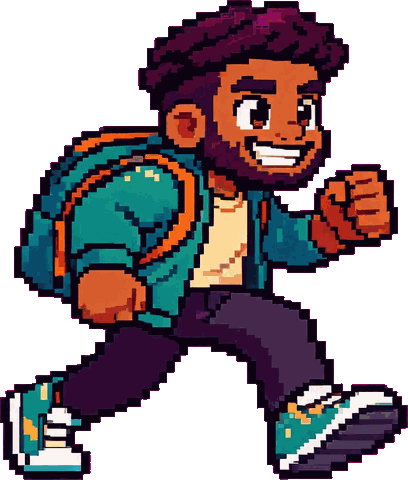
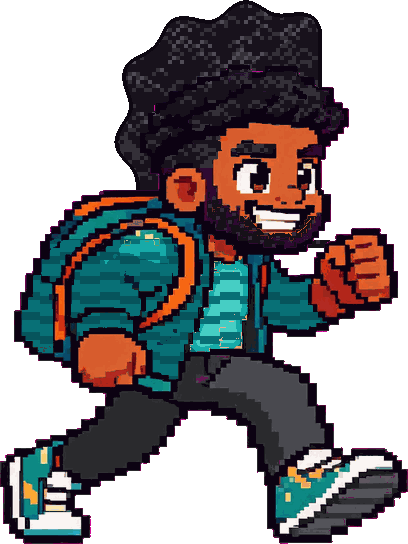
Repaint the title-screen hero with the afro too
repaint-hero.py now also repaints the big running hero on the title screen
(from assets/source/characters/title-hero-v1.webp, which build-art-kit.py
writes) in four-pixel blocks, with room added for the afro.

Claude-Session: https://claude.ai/code/session_01TySN1cNevy2HFj41ARkqbS

diff --git a/tools/repaint-hero.py b/tools/repaint-hero.py
@@ -24,6 +24,8 @@ ROOT = Path(__file__).resolve().parent.parent
 SOURCE = ROOT / 'assets/source/characters/hero-atlas-v1.png'
 ATLAS = ROOT / 'assets/production/characters/hero-atlas.png'
 META = ROOT / 'assets/production/characters/hero-atlas.json'
+TITLE_SOURCE = ROOT / 'assets/source/characters/title-hero-v1.webp'
+TITLE = ROOT / 'assets/production/characters/title-hero.webp'
 
 AFRO = np.array([24, 18, 28])
 AFRO_LIGHT = np.array([52, 48, 56])
@@ -78,13 +80,16 @@ def grow(mask, steps=1):
     return out
 
 
-def repaint(cell):
+def repaint(cell, L=1, px=1):
+    """Repaint one picture of him. L is how many times larger than the game sprite he is drawn,
+    and px the size of one of the picture's pixel blocks."""
     cell = cell.copy()
     alpha = cell[..., 3]
     solid = alpha > 160
     hue, sat, val = classes(cell)
     rgb = cell[..., :3].astype(np.int32)
     yy, xx = np.mgrid[0:cell.shape[0], 0:cell.shape[1]]
+    by, bx = yy // px, xx // px
 
     skin = solid & (hue > 0.02) & (hue < 0.1) & (sat > 0.45) & (val > 0.5)
     dark = solid & (val < 0.36) & ((hue > 0.85) | (hue < 0.06) | (sat < 0.3))
@@ -100,12 +105,12 @@ def repaint(cell):
     # His face is the skin patch that touches the hair most (fists can be just as high).
     # A head is about 30 pixels from crown to chin, which keeps a raised hand off the face.
     hair_top = np.where(hair)[0].min() if hair.any() else top
-    labels, sizes = components(skin & (yy < hair_top + 32))
-    near = grow(hair, 3)
+    labels, sizes = components(skin & (yy < hair_top + 32 * L))
+    near = grow(hair, round(3 * L))
     best, face = 0, None
     for n in range(1, len(sizes)):
         touch = int((near & (labels == n)).sum())
-        if touch > best and sizes[n] > 25:
+        if touch > best and sizes[n] > 25 * L * L:
             best, face = touch, labels == n
     if face is None:
         return cell
@@ -119,45 +124,56 @@ def repaint(cell):
     eye_line = face_top + (face_bottom - face_top) * 0.38
 
     # Afro: a round, curly mass centred a little behind and above the face.
-    radius = face_w * 1.1 + 1
+    radius = face_w * 1.1 + L
     cx = face_cx - face_w * 0.22
     cy = min(face_top + 1, hair_top + radius * 0.82)
-    cy = max(cy, radius / 1.06 + 2)  # room above, or the cell edge flattens the crown
+    cy = max(cy, radius / 1.06 + 2 * px)  # room above, or the cell edge flattens the crown
     angle = np.arctan2(yy - cy, xx - cx)
-    bumps = 1.1 * np.sin(angle * 11) + 0.6 * np.sin(angle * 5 + 1.3)
+    bumps = (1.1 * np.sin(angle * 11) + 0.6 * np.sin(angle * 5 + 1.3)) * L
     inside = np.hypot((xx - cx) * 1.0, (yy - cy) * 1.06) <= radius + bumps
     # In front of the face it stops at the forehead; behind, at the ear.
     # The front curves down into the forehead instead of jutting out like a cap's brim.
     front = xx > face_cx + face_w * 0.05
-    inside &= ~(front & (yy > eye_line - 2 - (xx - face_cx - face_w * 0.05) * 0.9))
+    inside &= ~(front & (yy > eye_line - 2 * L - (xx - face_cx - face_w * 0.05) * 0.9))
     inside &= xx <= face_right
     inside &= yy < face_top + (face_bottom - face_top) * 0.72
-    paintable = (alpha < 100) | hair | (dark & (yy < eye_line))
+    # The big picture lights his hair with plum and magenta, which belongs to the afro as well.
+    plum = solid & ((hue > 0.8) | (hue < 0.03)) & (val < 0.62) & (sat > 0.35) & (yy < eye_line)
+    paintable = (alpha < 100) | hair | (dark & (yy < eye_line)) | (plum & (px > 1))
     afro = inside & paintable & ~skin & ~eye
     afro |= hair
 
     # Curls: short light dashes in staggered rows, more of them towards the top left.
     shade = (xx - cx) * 0.6 + (yy - cy)
-    u, v = (xx + ((yy // 4) % 2) * 2) % 4, yy % 4
+    u, v = (bx + ((by // 4) % 2) * 2) % 4, by % 4
     curl = ((u == 0) & (v == 1)) | ((u == 1) & (v == 0)) | ((u == 2) & (v == 0)) | ((u == 3) & (v == 1))
-    curl &= ((xx // 4 + yy // 4) % 3 != 0)
-    shine = curl & (shade < -radius * 0.45) & ((xx + yy) % 3 == 0)
-    edge = afro & ~grow(~afro, 1)
+    curl &= ((bx // 4 + by // 4) % 3 != 0)
+    if px > 1:
+        # Larger blocks read as knitting in a regular pattern, so the big picture scatters them.
+        gh, gw = by.max() + 3, bx.max() + 3
+        gy, gx = np.mgrid[0:gh, 0:gw]
+        seed = (((gx * 73856093) ^ (gy * 19349663)) % 100) < 9
+        arcs = seed.copy()  # each seed draws a small curl: up one block, then across and down
+        arcs[:-1, 1:] |= seed[1:, :-1]
+        arcs[:-1, 2:] |= seed[1:, :-2]
+        arcs[:, 3:] |= seed[:, :-3]
+        curl = arcs[by, bx]
+    shine = curl & (shade < -radius * 0.45) & ((bx + by) % 3 == 0)
     colour = np.where(curl[..., None], AFRO_LIGHT, AFRO)
     colour = np.where(shine[..., None], AFRO_SHINE, colour)
     cell[afro, :3] = colour[afro]
     cell[afro, 3] = 255
-    rim = afro & grow(~afro & (alpha < 100), 1)
+    rim = afro & grow(~afro & (alpha < 100), px)
     cell[rim, :3] = OUTLINE
 
     # Beard: the dark pixels on the lower face go black, and it fills out by a pixel along the
     # jaw and two under the chin.
-    lower = (yy > eye_line + 2) & (yy <= face_bottom + 2) & (xx >= face_left - 1) & (xx <= face_right + 1)
+    lower = (yy > eye_line + 2 * L) & (yy <= face_bottom + 2 * L) & (xx >= face_left - L) & (xx <= face_right + L)
     beard = lower & solid & (dark | ((hue > 0.9) & (val < 0.5))) & ~afro
-    jaw = skin & (yy > face_bottom - 4) & grow(beard, 1) & ~grow(eye, 1)
-    chin = (alpha < 100) & grow(beard & (yy >= face_bottom - 1), 2) & (yy > face_bottom) & (yy <= face_bottom + 2)
+    jaw = skin & (yy > face_bottom - 4 * L) & grow(beard, px) & ~grow(eye, px)
+    chin = (alpha < 100) & grow(beard & (yy >= face_bottom - L), 2 * px) & (yy > face_bottom) & (yy <= face_bottom + 2 * px)
     beard |= jaw | chin
-    flecks = beard & ((xx * 3 + yy * 5) % 7 == 0)
+    flecks = beard & ((bx * 3 + by * 5) % 7 == 0)
     cell[beard, :3] = BEARD
     cell[flecks, :3] = BEARD_LIGHT
     cell[beard, 3] = 255
@@ -166,28 +182,42 @@ def repaint(cell):
     below_head = yy > face_bottom - 1
     teal = solid & (hue > 0.42) & (hue < 0.56) & (sat > 0.35) & (val > 0.25) & below_head
     labels, sizes = components(teal)
-    jacket = np.isin(labels, [n for n in range(1, len(sizes)) if sizes[n] >= 15])
+    jacket = np.isin(labels, [n for n in range(1, len(sizes)) if sizes[n] >= 15 * L * L])
+    if px > 1:
+        jacket &= yy < top + (bottom - top) * 0.72  # his trainers are teal too
     # The shirt's shading runs into orange, so a patch counts as shirt only when it holds some
     # pale cream and sits against the jacket; his hands are never pale.
     cream = solid & (hue > 0.08) & (hue < 0.2) & (sat > 0.08) & (sat < 0.8) & (val > 0.8) & below_head
     pale = solid & (sat < 0.5) & (val > 0.9)
     labels, sizes = components(cream & ~face)
-    near_jacket = set(np.unique(labels[grow(jacket, 6) & (labels > 0)]).tolist())
-    keep = [n for n in near_jacket if n and (int((pale & (labels == n)).sum()) >= 1 or float(hue[labels == n].mean()) > 0.105)]
+    near_jacket = set(np.unique(labels[grow(jacket, round(6 * L)) & (labels > 0)]).tolist())
+    keep = [n for n in near_jacket if n and (int((pale & (labels == n)).sum()) >= px * px or float(hue[labels == n].mean()) > 0.105)]
     cream = np.isin(labels, keep)
+    if px > 1:
+        # The big picture's shirt has thin orange folds; they go with it, but not his hands.
+        orange = solid & (hue < 0.1) & (sat > 0.45) & ~face
+        labels, sizes = components(orange)
+        thin = np.isin(labels, [n for n in range(1, len(sizes)) if sizes[n] < 30 * px * px])
+        cream |= thin & grow(cream, 2 * px)
     hoodie = jacket | cream
     light = (rgb.sum(axis=2) / 3)
+    if px > 1:
+        # The big picture's jacket is textured; shade from its smoothed lightness so the teal
+        # comes out in clean bands instead of speckles.
+        from PIL import ImageFilter
+        lum = Image.fromarray(light.clip(0, 255).astype(np.uint8), 'L').filter(ImageFilter.BoxBlur(px * 2))
+        light = np.asarray(lum).astype(np.float32)
     level = np.clip((light - 40) / 160, 0, 1)
     base = np.where((level > 0.72)[..., None], TEAL_LIGHT, np.where((level > 0.35)[..., None], TEAL, TEAL_DARK))
     hoodie_rows = np.where(hoodie.any(axis=1))[0]
     start = hoodie_rows[0] if len(hoodie_rows) else 0
-    wobble = ((xx // 5) % 2)
-    stripe = ((yy - start + wobble) % 5 < 2)
+    wobble = ((bx // 5) % 2)
+    stripe = ((by - start // px + wobble) % 5 < 2)
     colour = np.where(stripe[..., None], np.where((level > 0.35)[..., None], TEAL_DARK, TEAL_SHADOW), base)
     cell[hoodie, :3] = colour[hoodie]
 
     # Trousers: violet navy to charcoal, keeping each pixel's lightness.
-    trousers = solid & (hue > 0.6) & (hue < 0.86) & (sat > 0.2) & (val > 0.14) & (val < 0.55) & (yy > face_bottom + 8)
+    trousers = solid & (hue > 0.6) & (hue < 0.86) & (sat > 0.2) & (val > 0.14) & (val < 0.55) & (yy > face_bottom + 8 * L)
     grey = (rgb[..., 0] * 0.3 + rgb[..., 1] * 0.45 + rgb[..., 2] * 0.25) * 1.12 + 8
     charcoal = np.stack([grey, grey, grey * 1.08], axis=-1).clip(0, 255)
     cell[trousers, :3] = charcoal[trousers].astype(np.uint8)
@@ -203,6 +233,16 @@ def main():
         out[y:y + h, x:x + w] = repaint(sheet[y:y + h, x:x + w])
     Image.fromarray(out, 'RGBA').save(ATLAS, optimize=True)
     print(f'hero atlas repainted: {len(meta["frames"])} frames -> {ATLAS.relative_to(ROOT)}')
+
+    # The title screen's big running hero: about six times the sprite, in four-pixel blocks, with
+    # room added above and behind for the afro.
+    title = Image.open(TITLE_SOURCE).convert('RGBA')
+    pad = Image.new('RGBA', (title.width + 40, title.height + 120))
+    pad.alpha_composite(title, (40, 120))
+    done = Image.fromarray(repaint(np.asarray(pad), L=6, px=4), 'RGBA')
+    done = done.crop(done.getbbox())
+    done.save(TITLE, 'WEBP', lossless=True, method=6)
+    print(f'title hero repainted: {done.width} x {done.height} -> {TITLE.relative_to(ROOT)}')
 
 
 if __name__ == '__main__':

diff --git a/tools/build-art-kit.py b/tools/build-art-kit.py
@@ -8,7 +8,8 @@ Outputs:
   assets/production/environment/kit-atlas.png/.json   every small sprite, cut out at the size the
                                                       game draws it, plus where the scenery lives
   assets/production/backgrounds/<world>-<layer>.webp  the layers of a world painted in layers
-  assets/production/characters/title-hero.webp        the hero on the title screen
+  assets/production/characters/title-hero.webp        the hero on the title screen, by way of
+                                                      tools/repaint-hero.py (afro and hoodie)
 
 Then run tools/build.py, which copies the atlas's JSON into src/assets.js.
 
@@ -24,7 +25,7 @@ ROOT = Path(__file__).resolve().parents[1]
 SRC = ROOT / 'assets/source/kit'
 BACKGROUNDS = ROOT / 'assets/production/backgrounds'
 ATLAS = ROOT / 'assets/production/environment/kit-atlas'
-TITLE_HERO = ROOT / 'assets/production/characters/title-hero.webp'
+TITLE_HERO = ROOT / 'assets/source/characters/title-hero-v1.webp'  # repaint-hero.py finishes it
 SCREEN = (960, 540)
 ATLAS_WIDTH = 512
 
@@ -307,6 +308,8 @@ def title_hero():
     # Few colours, as pixel art has: the picture stays sharp when the page enlarges it.
     small = sized(hero, height=480).quantize(96, method=Image.FASTOCTREE, dither=Image.NONE).convert('RGBA')
     small.save(TITLE_HERO, 'WEBP', lossless=True, method=6)
+    import subprocess, sys
+    subprocess.run([sys.executable, str(ROOT / 'tools/repaint-hero.py')], check=True)
 
 
 # --- Application Alley's sky traffic -------------------------------------------------------------

diff --git a/docs/ART-BIBLE.md b/docs/ART-BIBLE.md
@@ -183,4 +183,4 @@ python3 tools/build-character-atlas.py
 python3 tools/build.py
 ```
 
-`build-environment-atlas.py` reproduces the committed terrain and prop atlases byte for byte from `assets/source-atlases/`. `build-character-atlas.py` expects the generated hero and enemy sheets (`hero-source.png` and `enemy-cutout.png`), which are not in this repository, so the committed hero and enemy atlases are the working originals. The approved short-haired hero is kept as `assets/source/characters/hero-atlas-v1.png`; `tools/repaint-hero.py` repaints it (afro, beard, striped hoodie, charcoal trousers) into the production atlas, frame for frame. When artwork changes, add the new generated source as a new file and keep the approved boards untouched.
+`build-environment-atlas.py` reproduces the committed terrain and prop atlases byte for byte from `assets/source-atlases/`. `build-character-atlas.py` expects the generated hero and enemy sheets (`hero-source.png` and `enemy-cutout.png`), which are not in this repository, so the committed hero and enemy atlases are the working originals. The approved short-haired hero is kept as `assets/source/characters/hero-atlas-v1.png`; `tools/repaint-hero.py` repaints it (afro, beard, striped hoodie, charcoal trousers) into the production atlas, frame for frame, and does the same to the title-screen hero (`assets/source/characters/title-hero-v1.webp`). When artwork changes, add the new generated source as a new file and keep the approved boards untouched.
